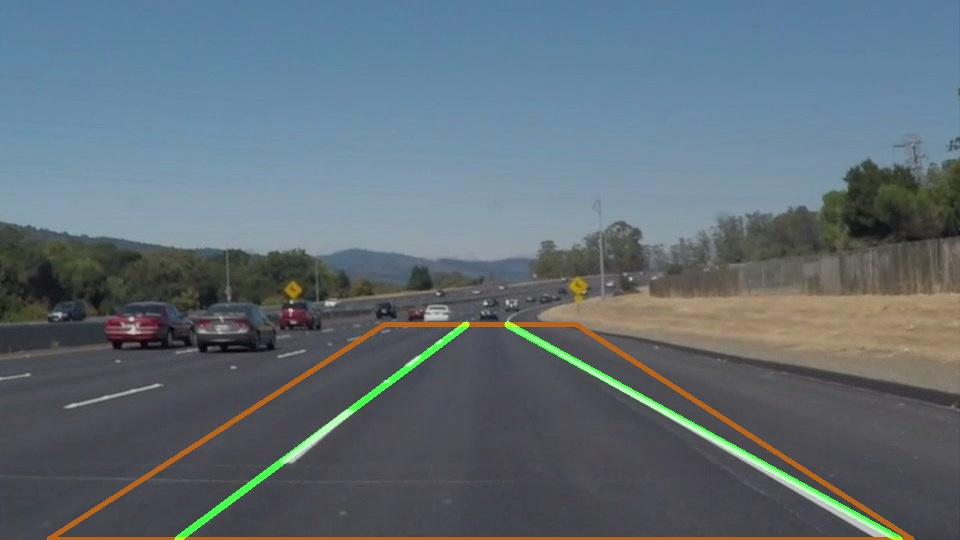
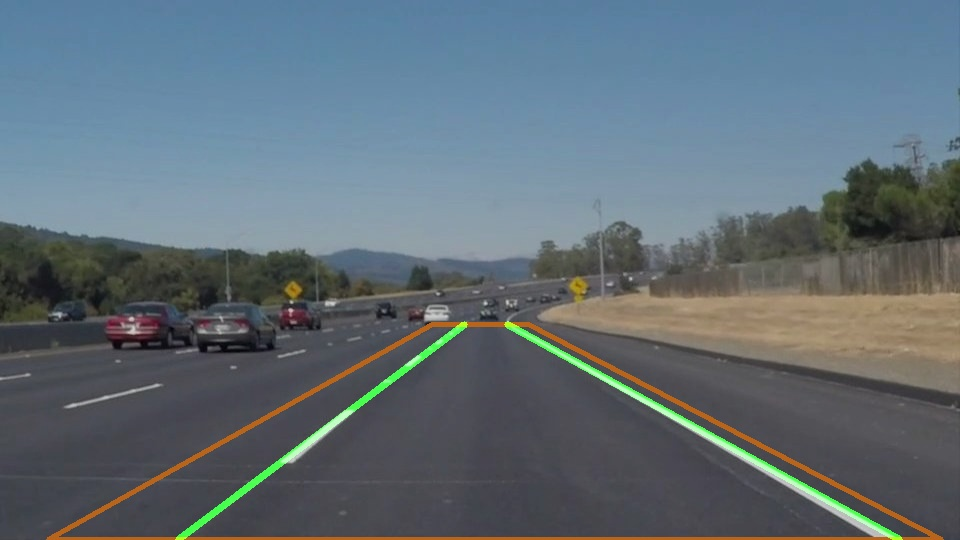
Edit: Rearranged the structure of program, added sobel functions.

diff --git a/lane_detection/helper_functions.py b/lane_detection/helper_functions.py
@@ -33,6 +33,36 @@ def region_of_interest(img, vertices):
     return masked_image
 
 
+def line_vertices(img_BGR):
+    """
+    Accepts an RGB image array, return a tuple of (lines, vertices) for region selection.
+
+    Input:
+    img_RGB: 3-tunnel image array, with size of Height * Width * Tunnels
+
+    Output:
+    lines: cordinates list of all lines to be drawn, size: 1 * Number_of_Lines * 4
+    vertices: cordinates numpy array of all vertices, size: 1 * Number_of_Vertices * 2
+    """
+    y_max, x_max, _ = img_BGR.shape
+    # Assign cordinates for the 4 corners
+    Point_Lower_Left = (round(0.05 * x_max), y_max - 1)
+    Point_Lower_Right = (round(0.98 * x_max), y_max - 1)
+    Point_Upper_Left = (round(0.45 * x_max), round(0.6 * y_max))
+    Point_Upper_Right = (round(0.55 * x_max), round(0.6 * y_max))
+    Point_list = [Point_Lower_Left, Point_Lower_Right,
+                  Point_Upper_Right, Point_Upper_Left]
+    line = []
+    vertices = []
+    for i in range(len(Point_list)):
+        line.append(Point_list[0] + Point_list[1])
+        vertices.append(Point_list[0])
+        Point_list = Point_list[1:] + Point_list[:1]
+    lines = [line]
+    vertices = np.array([vertices])
+    return (lines, vertices)
+
+
 def draw_lines(img, lines, color=[0, 255, 0], thickness=6):
     """
     This function draws `lines` with `color` and `thickness`.
@@ -41,6 +71,30 @@ def draw_lines(img, lines, color=[0, 255, 0], thickness=6):
     for line in lines:
         for x1, y1, x2, y2 in line:
             cv2.line(img, (x1, y1), (x2, y2), color, thickness)
+
+
+def sobel_mag_thresh(img, sobel_kernel=3, mag_thresh=(0, 255), dir_thresh=(0,np.pi/2)):
+    """Use Sobel kernels to calculate the magnitude&direction of derivatives of an image.
+
+    :input: img: image object RGB/GRAY
+    :input: mag_thresh: tuple of magnitude thresholds
+    :input: dir_thresh: tuple of direction thresholds
+    :input: sobel_kernel: size of the sobel kernel
+
+    :output: (mag_bin, dir_bin): magnitude and direction binary image of image derivatives.
+    """
+    if len(img.shape) == 3:
+        img_gray = cv2.cvtColor(img, cv2.COLOR_RGB2GRAY)
+    elif len(img.shape) == 2:
+        img_gray = cv2.copy(img)
+    dx_img_sobel = cv2.Sobel(img_gray, cv2.CV_64F, 1, 0, ksize=sobel_kernel)
+    dy_img_sobel = cv2.Sobel(img_gray, cv2.CV_64F, 0, 1, ksize=sobel_kernel)
+    d_img_mag = np.sqrt(np.square(dx_img_sobel) + np.square(dy_img_sobel))
+    d_img_dir = np.arctan2(np.absolute(dy_img_sobel), np.absolute(dx_img_sobel))
+    d_img_mag_scaled = np.uint8(255 * d_img_mag / d_img_mag.max())
+    d_img_mag_bin = (d_img_mag_scaled > mag_thresh[0]) * (d_img_mag_scaled < mag_thresh[1])
+    d_img_dir_bin = (d_img_dir > dir_thresh[0]) * (d_img_dir < dir_thresh[1])
+    return d_img_mag_bin,d_img_dir_bin
 
 
 def hough_lines(img, rho, theta, threshold, min_line_len, max_line_gap):
@@ -137,33 +191,3 @@ def image_show(Img, name='image'):
     cv2.imshow(name, Img)
     cv2.waitKey(0)
     cv2.destroyAllWindows()
-
-
-def line_vertices(img_BGR):
-    """
-    Accepts an RGB image array, return a tuple of (lines, vertices) for region selection.
-
-    Input:
-    img_RGB: 3-tunnel image array, with size of Height * Width * Tunnels
-
-    Output:
-    lines: cordinates list of all lines to be drawn, size: 1 * Number_of_Lines * 4
-    vertices: cordinates numpy array of all vertices, size: 1 * Number_of_Vertices * 2
-    """
-    y_max, x_max, _ = img_BGR.shape
-    # Assign cordinates for the 4 corners
-    Point_Lower_Left = (round(0.05 * x_max), y_max - 1)
-    Point_Lower_Right = (round(0.98 * x_max), y_max - 1)
-    Point_Upper_Left = (round(0.45 * x_max), round(0.6 * y_max))
-    Point_Upper_Right = (round(0.55 * x_max), round(0.6 * y_max))
-    Point_list = [Point_Lower_Left, Point_Lower_Right,
-                  Point_Upper_Right, Point_Upper_Left]
-    line = []
-    vertices = []
-    for i in range(len(Point_list)):
-        line.append(Point_list[0] + Point_list[1])
-        vertices.append(Point_list[0])
-        Point_list = Point_list[1:] + Point_list[:1]
-    lines = [line]
-    vertices = np.array([vertices])
-    return (lines, vertices)

diff --git a/lane_detection/__init__.py b/lane_detection/__init__.py
@@ -6,6 +6,7 @@ Lane Detection Package
 
 
 """
-__all__=['image_show', 'image_processing_pipeline', 'video_processing_pipeline']
-from .parameters import *
+
+from .helper_functions import *
 from .draw_lanes import *
+__all__=['image_show', 'image_processing_pipeline', 'video_processing_pipeline']

diff --git a/__init__.py b/__init__.py
@@ -1,0 +1,2 @@
+import cv2
+print("Welcome to the autonomous driving package\n Author: Lixing Zhang")
